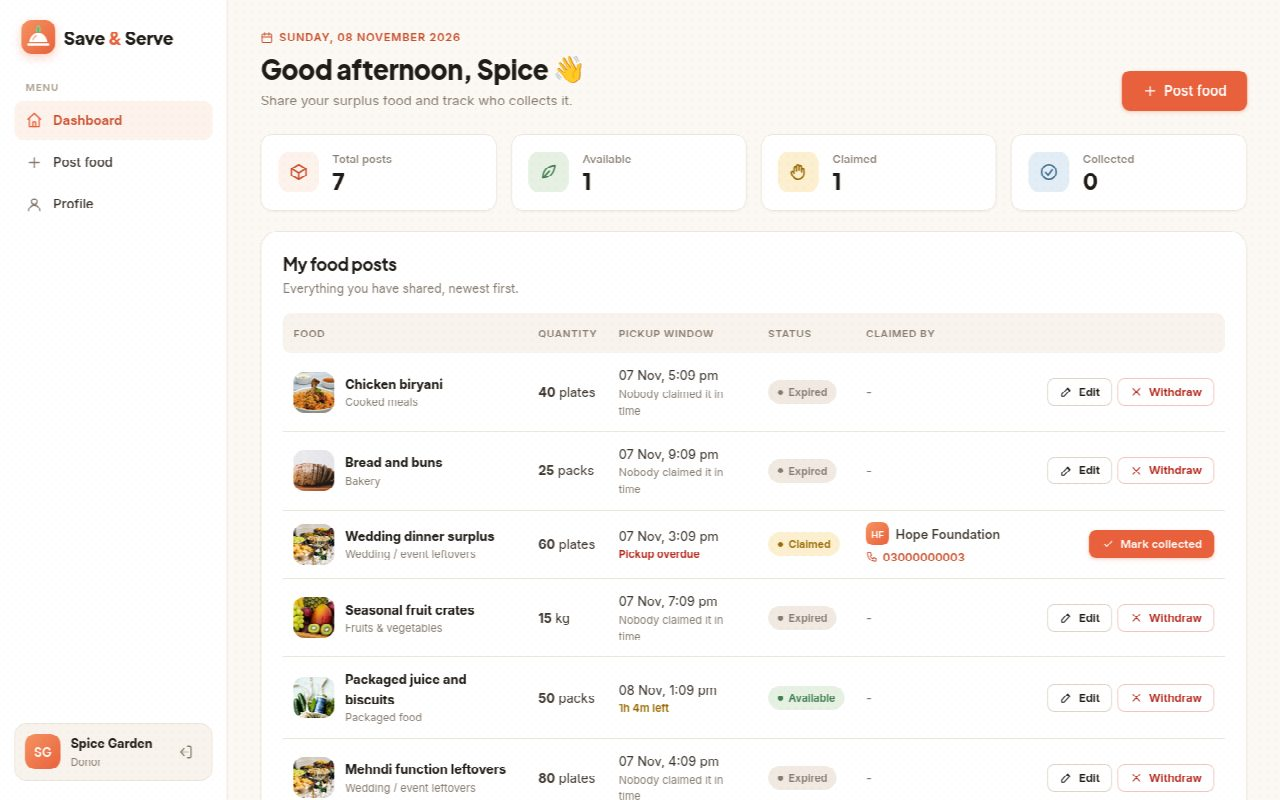
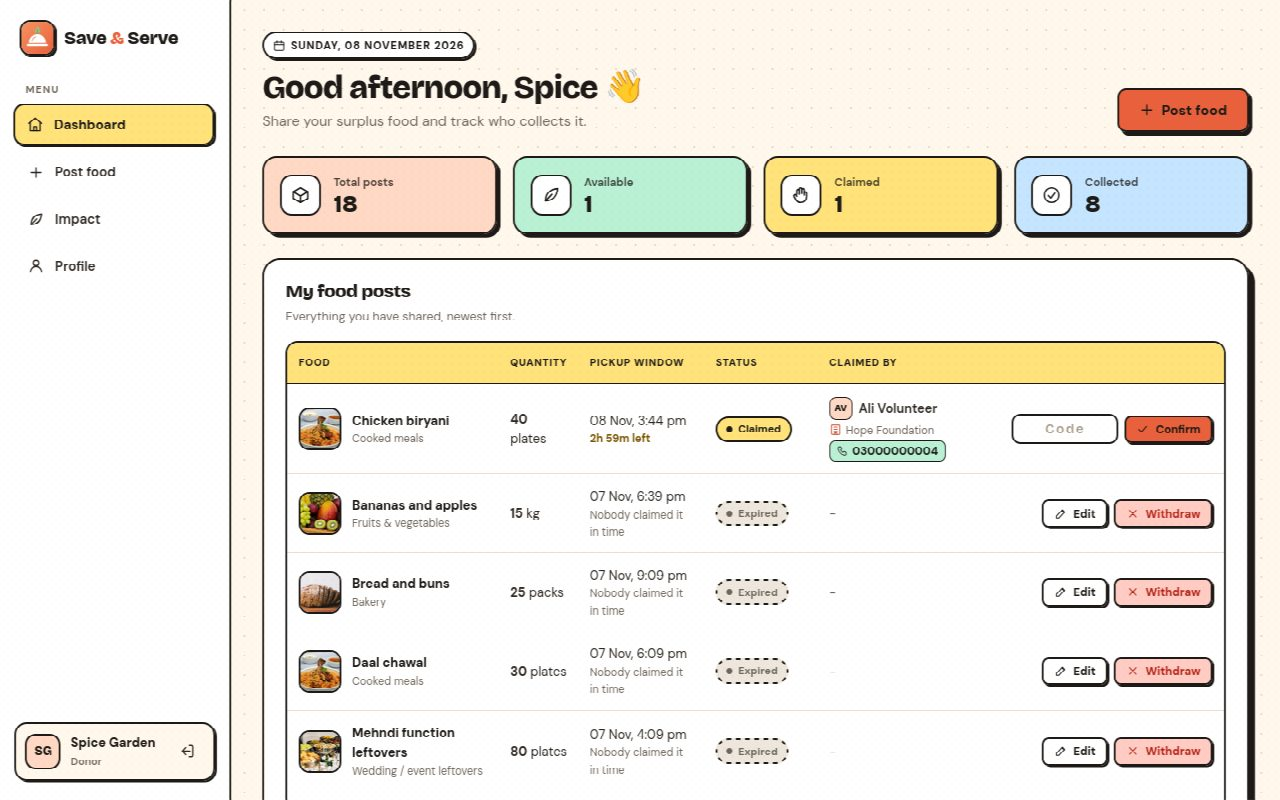
Update README and screenshots for the redesign, impact page and pickup codes
Documents the Impact dashboard and pickup codes, the APP_SECRET setup step, the new demo accounts and history, and credits the bundled Chart.js and qrcode-generator libraries and the fonts. Screenshots retaken in the new style, including the impact page and a pickup code.

diff --git a/README.md b/README.md
@@ -17,12 +17,12 @@ See [PRD.md](PRD.md) for requirements and [docs/erd.mmd](docs/erd.mmd) for the d
 - Post surplus food: title, category, quantity, description, pickup window and pickup address.
 - Dashboard of all their posts with status, time left and who claimed each one.
 - **Edit** or **withdraw** a post while nobody has claimed it. Extending the pickup time revives an expired post.
-- See the claimer's name, NGO and phone, then **mark the food collected** at pickup.
+- See the claimer's name, NGO and phone, then confirm the pickup by entering the collector's **pickup code** (or scanning their QR code).
 
 ### NGO / volunteer
 - Browse available food as cards, soonest-ending first, with **filters** by city, area and category.
 - **Claim** food (one claim per post) and **cancel** a claim if plans change.
-- After claiming, see the donor's **full pickup address and phone number**.
+- After claiming, see the donor's **full pickup address and phone number**, plus a **6-digit pickup code and QR code** to show at handover.
 - NGO managers have a **My team** page: add volunteers by email and remove them.
   Members of a verified NGO can claim on its behalf.
 
@@ -32,13 +32,14 @@ See [PRD.md](PRD.md) for requirements and [docs/erd.mmd](docs/erd.mmd) for the d
 
 ### Everyone
 - **Post detail page** with a **history timeline**: who posted, claimed, cancelled or collected, and when.
+- **Impact dashboard** with charts: plates saved, success rate, average time to claim, a 14-day activity chart, posts by category, outcomes, and top donors and collectors.
 - **Profile page** to edit name, phone and address, and to change the password.
 - Responsive layout that works on phones.
 
 ## How a post moves
 
 ```
-               claim                    donor confirms pickup
+               claim                donor enters the pickup code
  available ───────────────► claimed ───────────────────────► collected
    │  ▲                        │
    │  └──── claimer cancels ───┘
@@ -48,6 +49,12 @@ See [PRD.md](PRD.md) for requirements and [docs/erd.mmd](docs/erd.mmd) for the d
 ```
 
 Every status change is stored in `post_status_logs` together with who made it, and shown on the post's timeline.
+
+## Pickup codes
+Each claim has a 6-digit code, calculated as an HMAC of the claim (id, post, claimer, time) with a secret key
+(`APP_SECRET`). Nothing extra is stored in the database, a cancelled-and-reclaimed post gets a new code, and
+without the secret nobody can work a code out. The claimer shows the code (or its QR code) at pickup and the
+donor enters it to mark the food collected. Five wrong codes lock that post for ten minutes.
 
 ## Who can claim
 A user can claim food if **either**:
@@ -64,6 +71,7 @@ A user can claim food if **either**:
 | Session fixation | `session_regenerate_id()` on login and on password change |
 | Double claiming | `SELECT … FOR UPDATE` row lock inside a transaction, plus `UNIQUE (claims.post_id)` |
 | Access control | `require_role()` on every page; contact details only shown to the two parties of a claim |
+| Wrong person collecting | Collection needs the claimer's HMAC pickup code; 5 wrong tries lock the post for 10 minutes |
 
 ## Setup
 
@@ -81,7 +89,8 @@ A user can claim food if **either**:
    ```bash
    cp config/db.example.php config/db.php   # then put your MySQL user and password in it
    ```
-   `config/db.php` is git-ignored, so your password never reaches GitHub.
+   Also set `APP_SECRET` in it to a long random string (used for pickup codes), e.g. the output of
+   `php -r "echo bin2hex(random_bytes(32));"`. `config/db.php` is git-ignored, so your secrets never reach GitHub.
 4. **Run it**
    ```bash
    php -S localhost:8000
@@ -98,6 +107,7 @@ ALTER TABLE food_posts MODIFY status ENUM('available','claimed','collected','wit
 ALTER TABLE users ADD COLUMN rejected_at DATETIME NULL AFTER is_verified;
 ALTER TABLE ngos  ADD COLUMN rejected_at DATETIME NULL AFTER is_verified;
 ```
+and add an `APP_SECRET` line to `config/db.php` (see `config/db.example.php`).
 
 ## Demo accounts
 All use the password **`password123`**.
@@ -105,19 +115,25 @@ All use the password **`password123`**.
 | Role | Email | Notes |
 |---|---|---|
 | Admin | admin@saveandserve.test | Verifies and rejects NGOs and volunteers |
-| Donor | donor@saveandserve.test | Spice Garden Restaurant, has 7 posts |
+| Donor | donor@saveandserve.test | Spice Garden Restaurant |
+| Donor | marquee@saveandserve.test | Royal Palm Marquee (wedding hall) |
+| Donor | bakery@saveandserve.test | Daily Bread Bakery |
 | NGO | ngo@saveandserve.test | Manager of Hope Foundation (verified) |
+| NGO | rizq@saveandserve.test | Manager of Rizq Welfare (verified) |
 | Volunteer | volunteer@saveandserve.test | Verified, and a member of Hope Foundation |
+| Volunteer | sara@saveandserve.test | Verified, independent |
+
+The seed also contains two weeks of past activity so the Impact charts have data.
 
 ## Screenshots
 
 | Login | Donor dashboard |
 |---|---|
 | ![Login](docs/screenshots/login.jpg) | ![Donor dashboard](docs/screenshots/donor.jpg) |
-| **Post detail and history** | **NGO team** |
+| **Pickup code and history** | **NGO team** |
 | ![Post detail](docs/screenshots/post.jpg) | ![Team page](docs/screenshots/team.jpg) |
-| **Admin** | |
-| ![Admin](docs/screenshots/admin.jpg) | |
+| **Impact dashboard** | **Admin** |
+| ![Impact](docs/screenshots/impact.jpg) | ![Admin](docs/screenshots/admin.jpg) |
 
 ## Project structure
 ```
@@ -126,9 +142,10 @@ signup.php        sign up as donor, NGO or volunteer
 login.php         log in        logout.php   log out (POST + CSRF)
 home.php          role-based dashboard
 post_food.php     create a post, or edit one with ?id=N
-post.php          post details and status history timeline
+post.php          post details, status history timeline, pickup code + QR
+impact.php        community impact dashboard with charts
 claim.php         claim a post          cancel.php    cancel a claim
-collect.php       donor confirms pickup withdraw.php  donor withdraws a post
+collect.php       donor confirms pickup with the code   withdraw.php  donor withdraws a post
 verify.php        admin verifies or rejects NGOs and volunteers
 team.php          NGO manager adds and removes volunteer members
 profile.php       edit contact details and change password
@@ -138,13 +155,20 @@ includes/         auth.php (sessions, roles, CSRF, claim rules), ui.php (icons, 
                   header.php, footer.php, auth_hero.php
 sql/              schema.sql, seed.sql
 docs/             erd.mmd, project documentation (.docx), screenshots/
-assets/           css/style.css, js/validate.js, img/ (logo, category and login photos)
+assets/           css/style.css, js/ (validate.js, impact.js, pickup.js, vendor/), img/ (logo and photos)
 ```
 
 ## Database
 Eight tables, see [docs/erd.mmd](docs/erd.mmd):
 `users`, `locations`, `ngos`, `ngo_members` (many-to-many between users and NGOs),
 `food_categories`, `food_posts`, `claims` (one per post) and `post_status_logs` (history).
+
+## Third-party libraries
+Bundled in `assets/js/vendor/` so everything works offline:
+- [Chart.js](https://www.chartjs.org) 4.4.1, MIT License
+- [qrcode-generator](https://github.com/kazuhikoarase/qrcode-generator) 1.4.4 by Kazuhiko Arase, MIT License
+
+Fonts: Bricolage Grotesque and DM Sans from Google Fonts (SIL Open Font License).
 
 ## Image credits
 The logo (`logo.svg`, `logo-full.svg`) was made for this project. Photos in `assets/img/` are from [Unsplash](https://unsplash.com) and used under the
